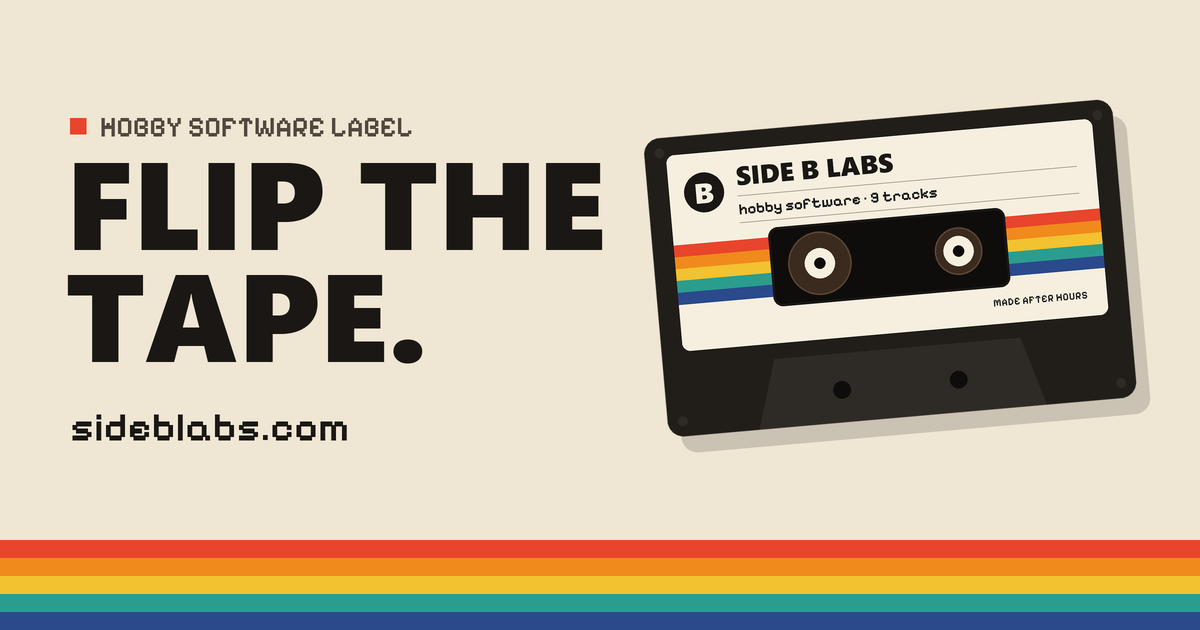
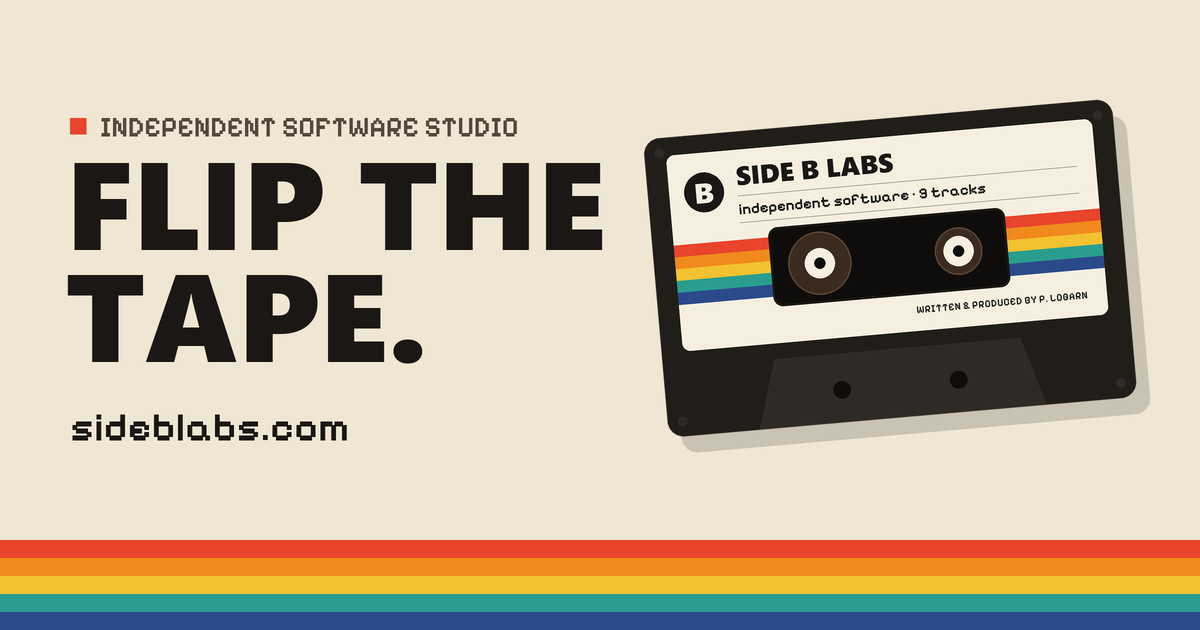
Not a hobby: Side B Labs is an independent studio, by a developer of 20 years
The word hobby is gone, with what went with it (side projects, spare
evenings, made for the fun of it, half-built). The hero and the liner
notes now say who makes this: Peter Logarn, a software developer with
more than twenty years of experience, and what the range of the tracks
shows. The cassette's label reads "independent software" and "written &
produced by P. Logarn", and the link-preview picture is drawn again to
match.

Changed region(s): [[0.0617, 0.181, 0.4317, 0.2413], [0.6167, 0.2714, 0.8325, 0.3619], [0.7708, 0.4524, 0.8942, 0.5127]]

diff --git a/index.html b/index.html
@@ -4,7 +4,7 @@
   <meta charset="utf-8">
   <meta name="viewport" content="width=device-width, initial-scale=1">
   <title>Side B Labs</title>
-  <meta name="description" content="Side B Labs is Peter Logarn's hobby software label: pixel art adventure games, a co-op space shooter, a DJ that mixes itself, watch faces, and a critter on a microcontroller.">
+  <meta name="description" content="Side B Labs is the independent software studio of Peter Logarn, a developer with more than 20 years of experience: pixel art adventure games, a co-op space shooter, an AI DJ, apps for Android and Wear OS, and firmware for small devices.">
   <meta name="theme-color" content="#efe6d3" media="(prefers-color-scheme: light)">
   <meta name="theme-color" content="#14120f" media="(prefers-color-scheme: dark)">
   <link rel="icon" type="image/svg+xml" href="assets/favicon.svg">
@@ -12,7 +12,7 @@
   <link rel="apple-touch-icon" href="assets/icon-180.png">
   <meta property="og:type" content="website">
   <meta property="og:title" content="Side B Labs">
-  <meta property="og:description" content="Hobby software from the other side of the tape: pixel art adventures, a co-op space shooter, a DJ that mixes itself, and more.">
+  <meta property="og:description" content="Independent software by Peter Logarn, a developer with more than 20 years of experience: pixel art adventures, a co-op space shooter, a DJ that mixes itself, and more.">
   <meta property="og:image" content="https://sideblabs.com/assets/og.png">
   <meta property="og:url" content="https://sideblabs.com/">
   <meta name="twitter:card" content="summary_large_image">
@@ -48,9 +48,9 @@
 
   <section class="hero wrap">
     <div class="hero-text">
-      <p class="eyebrow">Hobby software label</p>
+      <p class="eyebrow">Independent software studio</p>
       <h1>Flip the tape.</h1>
-      <p class="lede">Side&nbsp;B Labs is where Peter Logarn's side projects live. Pixel art adventures, a co-op space shooter, a DJ that mixes itself, a critter on a microcontroller: nine tracks so far, all made for the fun of it.</p>
+      <p class="lede">Side&nbsp;B Labs is the independent studio of Peter Logarn, a software developer with more than twenty years of experience. Pixel art adventures, a co-op space shooter, a DJ that mixes itself, apps for phone and watch, firmware for small devices: nine tracks so far, each designed and built end to end.</p>
       <p class="hero-actions">
         <a class="btn" href="#tracklist">
           <svg viewBox="0 0 16 16" aria-hidden="true"><path fill="currentColor" d="M4 2h2v1h2v1h2v1h2v1h2v4h-2v1h-2v1H8v1H6v1H4z"/></svg>
@@ -80,12 +80,12 @@
         <text class="c-side" x="74" y="89" text-anchor="middle">B</text>
         <text class="c-title" x="116" y="71">SIDE B LABS</text>
         <line class="c-rule" x1="116" y1="84" x2="546" y2="84"/>
-        <text class="c-hand" x="116" y="108">hobby software · 9 tracks</text>
+        <text class="c-hand" x="116" y="108">independent software · 9 tracks</text>
         <line class="c-rule" x1="116" y1="118" x2="546" y2="118"/>
         <text class="c-small" x="546" y="66" text-anchor="end">TYPE II · C-90</text>
         <text class="c-small" x="52" y="252">NR</text>
         <rect class="c-box" x="78" y="241" width="12" height="12"/>
-        <text class="c-small" x="546" y="252" text-anchor="end">MADE AFTER HOURS</text>
+        <text class="c-small" x="546" y="252" text-anchor="end">WRITTEN &amp; PRODUCED BY P. LOGARN</text>
 
         <rect class="c-window" x="150" y="128" width="300" height="100" rx="12"/>
         <g clip-path="url(#tape-window)">
@@ -127,7 +127,7 @@
   <section id="tracklist" class="wrap tracklist">
     <header class="section-head">
       <h2>Tracklist</h2>
-      <p class="px">Side B · 9 tracks · Running time: every spare evening</p>
+      <p class="px">Side B · 9 tracks · Games, apps and devices</p>
     </header>
 
     <article class="track a1" id="the-last-herald" data-n="B1" data-title="The Last Herald">
@@ -359,14 +359,15 @@
     </header>
     <div class="liner-body">
       <div class="liner-text">
-        <p class="big">Side&nbsp;A gets the singles. Side&nbsp;B is where the odd ones go, the ones made because somebody wanted to hear them.</p>
-        <p>That's what this is. Side&nbsp;B Labs is one person's hobby: games, apps and gadgets that started as "I wonder if that would work" and kept going. Some are finished and free to download. Some are half-built. All of them are listed here, in the order they came to mind.</p>
+        <p class="big">More than twenty years of building software. This is the side with my own name on the label.</p>
+        <p>I'm Peter Logarn, a software developer. Side&nbsp;B Labs is my independent studio: games, apps and devices that I design, write and publish myself, from the first line of code to the store page.</p>
+        <p>The range is the point. A point-and-click adventure with every line voiced. A real-time audio engine in C++ that beatmatches by itself. A whole game ported to a 14&nbsp;MHz Amiga and checked against the original, pixel for pixel. Firmware for a microcontroller, and apps for Android and Wear&nbsp;OS. Different platforms, the same care.</p>
         <p>Most of the tracks have a video on <a href="https://www.youtube.com/@PeterLogarn" rel="noopener">my YouTube channel</a>. And if something here is useful to you, or broken, or you just want to say hello: <a href="#contact">write in</a>.</p>
       </div>
       <dl class="credits">
-        <div><dt>Written, drawn &amp; produced by</dt><dd>Peter Logarn</dd></div>
+        <div><dt>Written, designed &amp; produced by</dt><dd>Peter Logarn</dd></div>
+        <div><dt>Experience</dt><dd>More than 20 years of software development</dd></div>
         <div><dt>Label</dt><dd>Side B Labs</dd></div>
-        <div><dt>Recorded</dt><dd>In spare time, with the door closed</dd></div>
         <div><dt>Instruments</dt><dd>Godot, C and C++, Kotlin, Go, and one 68020</dd></div>
         <div><dt>This site</dt><dd>No cookies, no ads and no tracking</dd></div>
       </dl>

diff --git a/tools/make_images.py b/tools/make_images.py
@@ -71,9 +71,9 @@ def cassette(scale):
     d.text((74 * k, 75 * k), "B", font=heavy(36 * k), fill=LABEL, anchor="mm")
     d.text((116 * k, 71 * k), "SIDE B LABS", font=heavy(33 * k), fill=INK, anchor="ls")
     d.line((116 * k, 84 * k, 546 * k, 84 * k), fill="#a59f92", width=k)
-    d.text((116 * k, 108 * k), "hobby software · 9 tracks", font=pixel(19 * k), fill=INK, anchor="ls")
+    d.text((116 * k, 108 * k), "independent software · 9 tracks", font=pixel(19 * k), fill=INK, anchor="ls")
     d.line((116 * k, 118 * k, 546 * k, 118 * k), fill="#a59f92", width=k)
-    d.text((546 * k, 252 * k), "MADE AFTER HOURS", font=pixel(13 * k), fill=INK, anchor="rs")
+    d.text((546 * k, 252 * k), "WRITTEN & PRODUCED BY P. LOGARN", font=pixel(13 * k), fill=INK, anchor="rs")
     box(150, 128, 300, 100, 12, fill=DARK, outline=INK, width=3 * k)
     for x, r in ((212, 40), (388, 30)):
         dot(x, 178, r, fill="#3b2a1e", outline="#5a4433", width=2 * k)
@@ -95,7 +95,7 @@ def og():
     for i, c in enumerate(STRIPES):
         d.rectangle((0, (540 + 18 * i) * s, w, (558 + 18 * i) * s), fill=c)
     d.rectangle((70 * s, 118 * s, 86 * s, 134 * s), fill=STRIPES[0])
-    d.text((100 * s, 127 * s), "HOBBY SOFTWARE LABEL", font=pixel(28 * s), fill="#51483e", anchor="lm")
+    d.text((100 * s, 127 * s), "INDEPENDENT SOFTWARE STUDIO", font=pixel(28 * s), fill="#51483e", anchor="lm")
     d.text((66 * s, 250 * s), "FLIP THE", font=heavy(124 * s), fill=INK, anchor="ls")
     d.text((66 * s, 362 * s), "TAPE.", font=heavy(124 * s), fill=INK, anchor="ls")
     d.text((70 * s, 440 * s), "sideblabs.com", font=pixel(40 * s), fill=INK, anchor="ls")

diff --git a/README.md b/README.md
@@ -1,6 +1,6 @@
 # Side B Labs: the website
 
-The hub for Side B Labs, a hobby software label: one page that lists every project as a track on side B of a tape, and the websites of two of them, The Last Herald and ThreadMix Auto DJ, in folders of their own.
+The hub for Side B Labs, Peter Logarn's independent software studio: one page that lists every project as a track on side B of a tape, and the websites of two of them, The Last Herald and ThreadMix Auto DJ, in folders of their own.
 
 **https://sideblabs.com**
 
@@ -35,7 +35,7 @@ A track in `index.html` has:
 
 The first five are full width. The ones in `<div class="b-grid">` are the smaller ones, two to a row; add `small` to the track's classes there.
 
-To add a project: copy a track, give it the next number, and change the "nine tracks" in the hero, the "9 tracks" under Tracklist and on the cassette's label (`hobby software · 9 tracks`, in the `<svg>` in `index.html` and in `tools/make_images.py`).
+To add a project: copy a track, give it the next number, and change the "nine tracks" in the hero, the "9 tracks" under Tracklist and on the cassette's label (`independent software · 9 tracks`, in the `<svg>` in `index.html` and in `tools/make_images.py`).
 
 **When something comes out:** Robin & Coco and Ensemble Reader say "Coming to Google Play", and have no links yet. When they're live, change the status to `<span class="status live">Released</span>` and add, after the tags:
 
